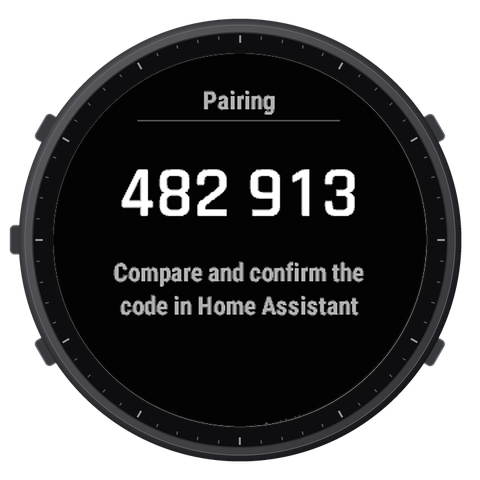
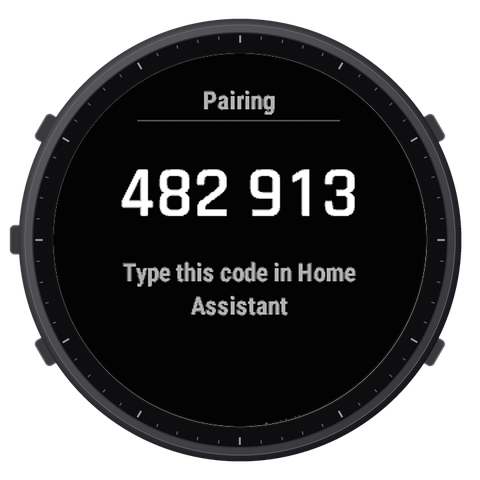
Help: pairing with a code (the ⚙, Repairs, a new code after 3 minutes), the menu with the version, no Reconnect setting; screenshots of pairing and Stay?; privacy: the app version sent with each request

Changed region(s): [[0.2188, 0.5312, 0.7812, 0.6562]]

diff --git a/pl/help.md b/pl/help.md
@@ -15,7 +15,7 @@ Potrzebujesz Home Assistant dostępnego przez **HTTPS** (np. Home Assistant Clou
 1. **Zainstaluj integrację.** W Home Assistant dodaj [WristTalk](https://github.com/grzegorz-krzyzak/ha-wristtalk#readme) przez HACS.
 2. **Skopiuj adres.** Opcje integracji pokazują adres dla zegarków jako link - skopiuj go.
 3. **Wklej go w aplikacji Connect IQ.** WristTalk → Ustawienia → **Adres domu** → Zapisz.
-4. **Sparuj.** W Home Assistant: WristTalk → **+ Dodaj zegarek**. Otwórz WristTalk na zegarku i potwierdź pokazany kod.
+4. **Sparuj.** W Home Assistant: WristTalk → **+ Dodaj zegarek**. Otwórz WristTalk na zegarku i wpisz pokazany kod w Home Assistant. Parowanie jest otwarte przez 3 minuty.
 
 Zegarek zawsze łączy się z Home Assistant przez telefon - także w domu.
 
@@ -26,7 +26,7 @@ Zegarek zawsze łączy się z Home Assistant przez telefon - także w domu.
 | **START** | Powiedz komendę. Naciśnij ponownie, żeby wysłać ją od razu. |
 | **BACK** | Przerwij komendę. Na ekranie bezczynności: zamknij aplikację. |
 | **UP / DOWN** | Przewijaj rozmowę. |
-| **Przytrzymaj UP** | Tylko tekst wł. / wył. |
+| **Przytrzymaj UP** | Menu: *Tylko tekst* wł. / wył., *Sparuj ponownie*, wersja aplikacji. |
 | **Dotyk** | Przeciągnij, żeby przewinąć. Stuknięcie tylko budzi ekran. |
 
 ## Ustawienia
@@ -36,7 +36,6 @@ W aplikacji Connect IQ na telefonie: WristTalk → Ustawienia.
 | Ustawienie | Co robi |
 |---|---|
 | **Adres domu** | Gdzie zegarek znajdzie twój Home Assistant. |
-| **Połącz ponownie z domem** | Paruje zegarek od nowa. Po parowaniu ta opcja sama się wyłącza. |
 | **Słuchaj od razu po otwarciu** | Otwarcie aplikacji od razu zaczyna słuchanie. |
 | **Po odpowiedzi** | *Czekaj na START* albo *Słuchaj dalej* do rozmowy. Przy *Słuchaj dalej* zegarek może uznać rozmowę lub radio w pobliżu za komendę. |
 | **Odpowiedź** | *Głos i tekst* albo *Tylko tekst*. |
@@ -47,13 +46,16 @@ W aplikacji Connect IQ na telefonie: WristTalk → Ustawienia.
 
 ## W Home Assistant
 
-Każdy zegarek ma własną kartę urządzenia z trzema ustawieniami.
+Każdy zegarek ma własną kartę urządzenia z trzema ustawieniami i statusem.
 
 | Ustawienie | Co robi |
 |---|---|
 | **Asystent** | Potok Assista, którego używa zegarek. |
 | **Wykrywanie końca mowy** | Jak szybko komenda się kończy, gdy przestaniesz mówić. *Domyślne* pasuje najczęściej. |
 | **Jakość głosu odpowiedzi** | *Szybka* (domyślna) dociera najszybciej. *Najlepsza* brzmi lepiej w słuchawkach. |
+| **Status** | *Sparowany* albo *Wymaga ponownego sparowania*. |
+
+**Sparuj ponownie:** ikona ⚙ przy zegarku w karcie integracji WristTalk. Zegarek i jego ustawienia zostają, zmienia się tylko klucz.
 
 ## Coś nie działa?
 
@@ -64,6 +66,6 @@ Każdy zegarek ma własną kartę urządzenia z trzema ustawieniami.
 | **Zaktualizuj WristTalk na zegarku** | Zaktualizuj aplikację na zegarku. |
 | **Zaktualizuj integrację WristTalk w Home Assistant** | Zaktualizuj integrację w HACS. |
 | **Nic nie usłyszałem** | Naciśnij START i powiedz jeszcze raz. |
-| **Ponowne parowanie** | Zegarek usunięto w Home Assistant albo włączono „Połącz ponownie”. Kliknij **+ Dodaj zegarek** w integracji WristTalk w Home Assistant. |
+| **Parowanie** z kodem | Po *Sparuj ponownie*: w Home Assistant ⚙ przy zegarku albo Ustawienia → Naprawy → **Napraw**. Zegarek usunięto w Home Assistant: **+ Dodaj zegarek**. Potem wpisz kod z zegarka. Jeśli kod nie zostanie wpisany w ciągu 3 minut, zegarek pokaże nowy. |
 
 Pytania: [wristtalk.app@gmail.com](mailto:wristtalk.app@gmail.com)

diff --git a/help.md b/help.md
@@ -22,7 +22,7 @@ You need Home Assistant reachable over **HTTPS** (for example Home Assistant Clo
 1. **Install the integration.** In Home Assistant, add [WristTalk](https://github.com/grzegorz-krzyzak/ha-wristtalk#readme) through HACS.
 2. **Copy the address.** The integration's options show the address for the watches as a link - copy it.
 3. **Paste it in the Connect IQ app.** WristTalk → Settings → **House address** → Save.
-4. **Pair.** In Home Assistant: WristTalk → **+ Add watch**. Open WristTalk on the watch and confirm the code it shows.
+4. **Pair.** In Home Assistant: WristTalk → **+ Add watch**. Open WristTalk on the watch and type the code it shows in Home Assistant. Pairing stays open for 3 minutes.
 
 The watch always talks to Home Assistant through your phone - also at home.
 
@@ -33,7 +33,7 @@ The watch always talks to Home Assistant through your phone - also at home.
 | **START** | Speak a command. Press again to send it at once. |
 | **BACK** | Cancel a command. On the idle screen: close the app. |
 | **UP / DOWN** | Scroll the conversation. |
-| **Hold UP** | Text only on / off. |
+| **Hold UP** | Menu: *Text only* on / off, *Pair again*, the app's version. |
 | **Touch** | Drag to scroll. A tap only wakes the screen. |
 
 ## Settings
@@ -43,7 +43,6 @@ In the Connect IQ app on your phone: WristTalk → Settings.
 | Setting | What it does |
 |---|---|
 | **House address** | Where the watch finds your Home Assistant. |
-| **Reconnect to the house** | Pairs the watch again from the start. After pairing this option switches itself off. |
 | **Listen as soon as it opens** | Opening the app starts listening at once. |
 | **After a reply** | *Wait for START* or *Keep listening* for a conversation. With *Keep listening*, the watch may take a conversation or a radio nearby for a command. |
 | **Reply** | *Voice and text* or *Text only*. |
@@ -54,13 +53,16 @@ In the Connect IQ app on your phone: WristTalk → Settings.
 
 ## In Home Assistant
 
-Each watch has its own device card with three settings.
+Each watch has its own device card with three settings and a status.
 
 | Setting | What it does |
 |---|---|
 | **Assistant** | The Assist pipeline the watch uses. |
 | **Finished speaking detection** | How soon a command ends after you stop. *Default* suits most. |
 | **Reply voice quality** | *Fast* (default) arrives soonest. *Best* sounds better with headphones. |
+| **Status** | *Paired* or *Needs pairing again*. |
+
+**Pair again:** the ⚙ next to the watch in the WristTalk integration. The watch and its settings stay; only its key changes.
 
 ## Something wrong?
 
@@ -71,6 +73,6 @@ Each watch has its own device card with three settings.
 | **Update WristTalk on the watch** | Update the watch app. |
 | **Update the WristTalk integration in Home Assistant** | Update the integration in HACS. |
 | **I did not hear anything** | Press START and say it again. |
-| **Pairing again** | The watch was removed in Home Assistant, or Reconnect was on. Click **+ Add watch** in the WristTalk integration in Home Assistant. |
+| **Pairing** with a code | After *Pair again*: in Home Assistant, the ⚙ next to the watch, or Settings → Repairs → **Fix**. The watch was removed in Home Assistant: **+ Add watch**. Then type the code from the watch. If the code is not typed within 3 minutes, the watch shows a new one. |
 
 Questions: [wristtalk.app@gmail.com](mailto:wristtalk.app@gmail.com)

diff --git a/privacy.md b/privacy.md
@@ -30,7 +30,7 @@ WristTalk is made by me, Grzegorz Krzyżak.
 | The recognised command and the reply (text and audio) | to show and play the reply | received from your Home Assistant | on screen until the app closes; not stored |
 | Pairing key | to prove the watch to your Home Assistant | stored on the watch; Home Assistant stores only a hash of it | until you pair again or remove the app |
 | House address and the app's settings | to reach your Home Assistant, your preferences | stored on the watch; edited in the Connect IQ app on your phone, which passes them to the watch | until you change them or remove the app |
-| A watch identifier, the watch model and the app version | to tell your watches apart when pairing | sent to your Home Assistant once, at pairing | kept in Home Assistant with the watch |
+| A watch identifier, the watch model and the app version | to tell your watches apart when pairing; the app version also to check that the watch and the integration fit | the identifier and the model sent to your Home Assistant at pairing; the app version with every request | kept in Home Assistant with the watch |
 
 The watch identifier is the one Connect IQ gives each app on each watch; it is not your Garmin
 account and it differs between apps.

diff --git a/index.md b/index.md
@@ -15,7 +15,7 @@ permalink: /
 ## On the watch
 
 <p>
-<img src="assets/screenshots/1-pairing.png" width="220" alt="Pairing: the code to compare in Home Assistant">
+<img src="assets/screenshots/1-pairing.png" width="220" alt="Pairing: the code to type in Home Assistant">
 <img src="assets/screenshots/2-start.png" width="220" alt="Press START to speak">
 <img src="assets/screenshots/3-listening.png" width="220" alt="Listening to a new command">
 <img src="assets/screenshots/4-thinking.png" width="220" alt="The command sent, the assistant thinking">
@@ -23,7 +23,7 @@ permalink: /
 <img src="assets/screenshots/6-stay.png" width="220" alt="Before closing when idle: Stay?">
 </p>
 
-Pair the watch once with a code you confirm in Home Assistant. Press START, say a command, and read
+Pair the watch once with a code you type in Home Assistant. Press START, say a command, and read
 the reply in a chat view - long conversations scroll with a finger or the buttons.
 
 ## What you need
